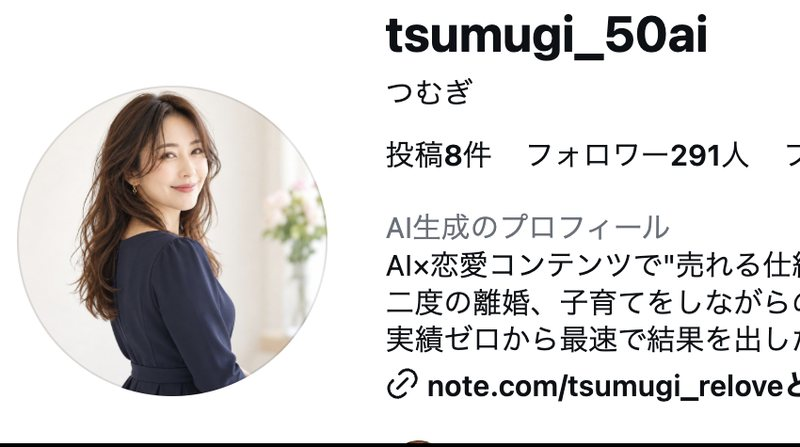
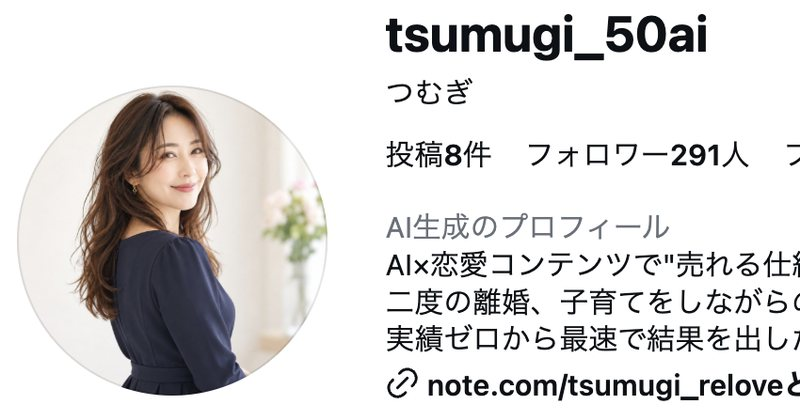
プレビュー: Instagram画像の下端を調整
Claude-Session: https://claude.ai/code/session_01V6GamY9VPYMhuLoqieR8B3

diff --git a/preview/index.html b/preview/index.html
@@ -401,7 +401,7 @@ footer a{text-decoration:none;color:#C9CDD6}
       <li><a href="https://x.gd/X5gJ0" target="_blank" rel="noopener noreferrer"><span class="name">YouTube</span><span class="what"><b>制作の裏側を“聞き流し”で</b><span>コンテンツ制作の裏側や思考プロセスを、音声コンテンツ（Podcast）としてお届けしています。</span></span><span class="shot"><img src="media/youtube.jpg?v=2" alt="YouTubeチャンネルの動画" loading="lazy"></span><span class="go"><svg viewBox="0 0 24 24" fill="none" stroke="currentColor" stroke-width="1.8"><path d="M5 12h14M13 6l6 6-6 6"/></svg></span></a></li>
       <li><a href="https://x.gd/6A2FX" target="_blank" rel="noopener noreferrer"><span class="name">X</span><span class="what"><b>日々の気づき＆新作のお知らせ</b><span>最新の活動情報や日々の気づき、コンテンツのリリース情報をタイムリーに発信しています。</span></span><span class="shot"><img src="media/x.jpg?v=2" alt="Xのプロフィール" loading="lazy"></span><span class="go"><svg viewBox="0 0 24 24" fill="none" stroke="currentColor" stroke-width="1.8"><path d="M5 12h14M13 6l6 6-6 6"/></svg></span></a></li>
       <li><a href="https://x.gd/66d9El" target="_blank" rel="noopener noreferrer"><span class="name">ココナラ</span><span class="what"><b>ココナラでも、つながれます</b><span>ココナラでも、つむぎのコンテンツをご覧いただけます。</span></span><span class="shot"><img style="object-position:0 50%" src="media/coconala.jpg?v=2" alt="ココナラのプロフィール" loading="lazy"></span><span class="go"><svg viewBox="0 0 24 24" fill="none" stroke="currentColor" stroke-width="1.8"><path d="M5 12h14M13 6l6 6-6 6"/></svg></span></a></li>
-      <li><a href="https://x.gd/dsNW6" target="_blank" rel="noopener noreferrer"><span class="name">Instagram</span><span class="what"><b>日々の発信＆新作のお知らせ</b><span>最新の活動や新作の情報を、Instagramでもお届けしています。</span></span><span class="shot"><img src="media/instagram.jpg?v=2" alt="Instagramのプロフィール" loading="lazy"></span><span class="go"><svg viewBox="0 0 24 24" fill="none" stroke="currentColor" stroke-width="1.8"><path d="M5 12h14M13 6l6 6-6 6"/></svg></span></a></li>
+      <li><a href="https://x.gd/dsNW6" target="_blank" rel="noopener noreferrer"><span class="name">Instagram</span><span class="what"><b>日々の発信＆新作のお知らせ</b><span>最新の活動や新作の情報を、Instagramでもお届けしています。</span></span><span class="shot"><img src="media/instagram.jpg?v=3" alt="Instagramのプロフィール" loading="lazy"></span><span class="go"><svg viewBox="0 0 24 24" fill="none" stroke="currentColor" stroke-width="1.8"><path d="M5 12h14M13 6l6 6-6 6"/></svg></span></a></li>
     </ul>
   </div>
 </section>
